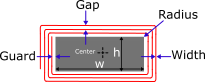
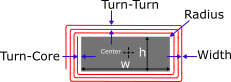
adding multi vias

Changed region(s): [[0.0, 0.0, 1.0, 1.0]]

diff --git a/install_to_kicad_plugins.py b/install_to_kicad_plugins.py
@@ -1,9 +1,13 @@
 """
-Interactive installer for a KiCad pcbnew action plugin.
+Interactive installer for KiCad pcbnew action plugins.
 
-Adds two explicit assets:
-- icon  -> installed as 'icon.png'
-- diagram -> installed as 'parameter_sketch.png'
+Now installs TWO plugins:
+- main plugin  (default: winding_generator.py)
+- via plugin   (default: place_vias.py)
+
+Also installs two explicit assets next to the plugins:
+- icon    -> 'icon.png'
+- diagram -> 'parameter_sketch.png'
 """
 
 import argparse
@@ -13,13 +17,15 @@ import platform
 import shutil
 from pathlib import Path
 
-# --- settings you might change ---
-DEFAULT_PLUGIN = "winding_generator.py"
+# --- defaults you may change ---
+DEFAULT_MAIN_PLUGIN = "winding_generator.py"
+DEFAULT_VIA_PLUGIN  = "place_vias.py"
 ICON_TARGET_NAME = "icon.png"
+VIA_ICON_TARGET_NAME = "vias_icon.png"
 DIAGRAM_TARGET_NAME = "parameter_sketch.png"
 CONFIG_FILE = Path.home() / ".kicad_plugin_installer.json"
 CONFIG_KEY = "plugins_dir"
-# ---------------------------------
+# --------------------------------
 
 def load_saved_plugins_dir() -> Path | None:
     if CONFIG_FILE.is_file():
@@ -102,31 +108,53 @@ def install_file(src: Path, dst_dir: Path, target_name: str, link: bool, force_c
     shutil.copy2(src, dst)
     print(f"✔ Copied: {src.name} → {dst.name}")
 
+def _install_plugin(repo_root: Path, src_name: str, dst_dir: Path, target_name: str | None, link: bool):
+    src = (repo_root / src_name).resolve()
+    if not src.is_file():
+        print(f"⚠ Skipping (not found): {src}")
+        return
+    final_name = target_name or src.name
+    print(f"Installing Python : {src.name} → {final_name} ({'symlink' if link else 'copy'})")
+    install_file(src, dst_dir, final_name, link=link, force_copy=False)
+
 def main():
-    ap = argparse.ArgumentParser(description="Install/Update KiCad plugin (asks for plugins folder first).")
-    ap.add_argument("--source", default=DEFAULT_PLUGIN,
-                    help="Plugin file in this repo (default: winding_generator.py)")
-    ap.add_argument("--name", default=None,
-                    help="Target filename in KiCad (default: same as source)")
-    ap.add_argument("--link", action="store_true",
-                    help="Create a symbolic link for the Python file instead of copying")
+    ap = argparse.ArgumentParser(description="Install/Update KiCad plugins (asks for plugins folder first).")
+
+    # Main spiral plugin
+    ap.add_argument("--main-source", default=DEFAULT_MAIN_PLUGIN,
+                    help=f"Main plugin file in this repo (default: {DEFAULT_MAIN_PLUGIN})")
+    ap.add_argument("--main-name", default=None,
+                    help="Target filename for main plugin in KiCad (default: same as source)")
+    ap.add_argument("--main-link", action="store_true",
+                    help="Symlink the main plugin instead of copying")
+
+    # Via plugin
+    ap.add_argument("--via-source", default=DEFAULT_VIA_PLUGIN,
+                    help=f"Via plugin file in this repo (default: {DEFAULT_VIA_PLUGIN})")
+    ap.add_argument("--via-name", default=None,
+                    help="Target filename for via plugin in KiCad (default: same as source)")
+    ap.add_argument("--via-link", action="store_true",
+                    help="Symlink the via plugin instead of copying")
+    ap.add_argument("--no-via", action="store_true",
+                    help="Do not install the via plugin")
+
+    # Common / assets
     ap.add_argument("--reset", action="store_true",
                     help="Ignore saved folder and ask again")
     ap.add_argument("--kicad-major", default="9",
                     help="KiCad major version for guesses (default: 9)")
-    # NEW: explicit asset sources (any filename); installed to fixed names
     ap.add_argument("--icon-src", default="icon.png",
                     help=f"Path to icon image to install as {ICON_TARGET_NAME} (default: icon.png)")
     ap.add_argument("--diagram-src", default="parameter_sketch.png",
                     help=f"Path to diagram image to install as {DIAGRAM_TARGET_NAME} (default: parameter_sketch.png)")
+    ap.add_argument("--via-icon-src", default="vias_icon.png",  # <— NEW
+                    help=f"Path to via icon image to install as {VIA_ICON_TARGET_NAME} (default: vias_icon.png)")
+
     args = ap.parse_args()
 
     repo_root = Path(__file__).resolve().parent
-    src_py = (repo_root / args.source).resolve()
-    if not src_py.is_file():
-        raise SystemExit(f"ERROR: source plugin not found: {src_py}")
 
-    # find plugins dir
+    # Resolve plugins dir
     plugins_dir = None if args.reset else load_saved_plugins_dir()
     if not plugins_dir:
         plugins_dir = pick_folder_gui()
@@ -136,17 +164,20 @@ def main():
                 print("\nNo folder chosen. Using detected path:", guesses[0])
                 plugins_dir = guesses[0]
             else:
-                raise SystemExit("\nNo folder chosen and nothing detected. Please run again and pick the folder.")
+                raise SystemExit("\nNo folder chosen and nothing detected. Run again and pick the folder.")
 
     save_plugins_dir(plugins_dir)
 
-    # install plugin
-    target_py = args.name or src_py.name
     print(f"\nKiCad plugins dir : {plugins_dir}")
-    print(f"Installing Python : {src_py.name} → {target_py} ({'symlink' if args.link else 'copy'})")
-    install_file(src_py, plugins_dir, target_py, link=args.link, force_copy=False)
 
-    # install icon → icon.png
+    # Install main plugin
+    _install_plugin(repo_root, args.main_source, plugins_dir, args.main_name, args.main_link)
+
+    # Install via plugin (optional)
+    if not args.no_via:
+        _install_plugin(repo_root, args.via_source, plugins_dir, args.via_name, args.via_link)
+
+    # Install icon → icon.png
     icon_src = (repo_root / args.icon_src).resolve()
     if icon_src.exists():
         print(f"Installing icon    : {icon_src.name} → {ICON_TARGET_NAME} (copy)")
@@ -154,7 +185,7 @@ def main():
     else:
         print(f"⚠ Icon not found   : {icon_src}")
 
-    # install diagram → parameter_sketch.png
+    # Install diagram → parameter_sketch.png
     diagram_src = (repo_root / args.diagram_src).resolve()
     if diagram_src.exists():
         print(f"Installing diagram : {diagram_src.name} → {DIAGRAM_TARGET_NAME} (copy)")
@@ -162,8 +193,16 @@ def main():
     else:
         print(f"⚠ Diagram not found: {diagram_src}")
 
+    # Install via icon → vias_icon.png   (NEW)
+    via_icon_src = (repo_root / args.via_icon_src).resolve()
+    if via_icon_src.exists():
+        print(f"Installing via icon: {via_icon_src.name} → {VIA_ICON_TARGET_NAME} (copy)")
+        install_file(via_icon_src, plugins_dir, VIA_ICON_TARGET_NAME, link=False, force_copy=True)
+    else:
+        print(f"⚠ Via icon not found: {via_icon_src}")
+
     print("\nDone. In KiCad PCB Editor use: Tools → External Plugins → Refresh Plugins.")
-    print(f"Plugin expects: {ICON_TARGET_NAME} and {DIAGRAM_TARGET_NAME} next to the plugin file.")
+    print(f"Plugins expect {ICON_TARGET_NAME}, {DIAGRAM_TARGET_NAME} and {VIA_ICON_TARGET_NAME} next to them.")
 
 if __name__ == "__main__":
     main()

diff --git a/place_vias.py b/place_vias.py
@@ -1,0 +1,172 @@
+# place_via_array.py
+# KiCad Action Plugin: Place an array of vias horizontally or vertically
+# KiCad 7/8/9 compatible. Units: dialog in mm; pcbnew uses nm (FromMM/ToMM).
+
+import pcbnew
+import wx
+import os
+
+MM = pcbnew.FromMM
+
+def v2(x, y):
+    return pcbnew.VECTOR2I(int(x), int(y))
+
+def get_netcode(board, net_name):
+    """Return netcode for net_name (0 if not found)."""
+    if not net_name or net_name.strip() == "":
+        return 0
+    # KiCad API differences guard:
+    try:
+        return board.GetNetcodeFromNetname(net_name)
+    except Exception:
+        nets = board.GetNetsByName()
+        n = nets.get(net_name)
+        return n.GetNet() if n else 0
+
+def all_net_names(board):
+    """Sorted list of net names (human-readable)"""
+    names = []
+    try:
+        # KiCad 7+
+        m = board.GetNetsByName()
+        for k in m.keys():
+            names.append(str(k))
+    except Exception:
+        # Fallback
+        for n in board.GetNets():
+            names.append(n.GetNetname())
+    names = [n for n in names if n and n != "" and n != ""]  # filter empties
+    names.sort()
+    names.insert(0, "<no net>")
+    return names
+
+def add_via(board, pos_nm, drill_mm, dia_mm, netcode=0):
+    """Create a through via at pos_nm (VECTOR2I) with given sizes."""
+    via = pcbnew.PCB_VIA(board)
+    via.SetViaType(pcbnew.VIATYPE_THROUGH)
+    via.SetPosition(pos_nm)
+    via.SetDrill(MM(drill_mm))
+    via.SetWidth(MM(dia_mm))            # width == diameter in KiCad
+    if netcode:
+        via.SetNetCode(netcode)
+    # through via layer pair covers all coppers by default
+    board.Add(via)
+
+class ViaArrayDialog(wx.Dialog):
+    def __init__(self, parent, board):
+        super().__init__(parent, title="Place Via Array",
+                         style=wx.DEFAULT_DIALOG_STYLE | wx.RESIZE_BORDER)
+        self.board = board
+        self.SetMinSize(wx.Size(480, 360))
+
+        p  = wx.Panel(self)
+        s  = wx.BoxSizer(wx.VERTICAL)
+
+        grid = wx.FlexGridSizer(3, 4, 6, 8)
+        grid.AddGrowableCol(1, 1)
+        grid.AddGrowableCol(3, 1)
+
+        # Center X / Y
+        grid.Add(wx.StaticText(p, label="Center X (mm):"), 0, wx.ALIGN_CENTER_VERTICAL)
+        self.cx = wx.TextCtrl(p, value="0.0", style=wx.TE_RIGHT); grid.Add(self.cx, 1, wx.EXPAND)
+        grid.Add(wx.StaticText(p, label="Center Y (mm):"), 0, wx.ALIGN_CENTER_VERTICAL)
+        self.cy = wx.TextCtrl(p, value="0.0", style=wx.TE_RIGHT); grid.Add(self.cy, 1, wx.EXPAND)
+
+        # Count & Pitch
+        grid.Add(wx.StaticText(p, label="Count:"), 0, wx.ALIGN_CENTER_VERTICAL)
+        self.count = wx.TextCtrl(p, value="6", style=wx.TE_RIGHT); grid.Add(self.count, 1, wx.EXPAND)
+        grid.Add(wx.StaticText(p, label="Pitch (mm):"), 0, wx.ALIGN_CENTER_VERTICAL)
+        self.pitch = wx.TextCtrl(p, value="1.00", style=wx.TE_RIGHT); grid.Add(self.pitch, 1, wx.EXPAND)
+
+        # Drill & Diameter
+        grid.Add(wx.StaticText(p, label="Drill (mm):"), 0, wx.ALIGN_CENTER_VERTICAL)
+        self.drill = wx.TextCtrl(p, value="0.30", style=wx.TE_RIGHT); grid.Add(self.drill, 1, wx.EXPAND)
+        grid.Add(wx.StaticText(p, label="Diameter (mm):"), 0, wx.ALIGN_CENTER_VERTICAL)
+        self.diam  = wx.TextCtrl(p, value="0.60", style=wx.TE_RIGHT); grid.Add(self.diam, 1, wx.EXPAND)
+
+        s.Add(grid, 0, wx.EXPAND | wx.ALL, 8)
+
+        # Orientation
+        ori_box = wx.StaticBoxSizer(wx.HORIZONTAL, p, "Orientation")
+        self.rb_h = wx.RadioButton(p, label="Horizontal (X)", style=wx.RB_GROUP)
+        self.rb_v = wx.RadioButton(p, label="Vertical (Y)")
+        self.rb_h.SetValue(True)
+        ori_box.Add(self.rb_h, 0, wx.RIGHT | wx.ALIGN_CENTER_VERTICAL, 16)
+        ori_box.Add(self.rb_v, 0, wx.ALIGN_CENTER_VERTICAL)
+        s.Add(ori_box, 0, wx.EXPAND | wx.LEFT | wx.RIGHT | wx.BOTTOM, 8)
+
+        # Net selection
+        net_box = wx.BoxSizer(wx.HORIZONTAL)
+        net_box.Add(wx.StaticText(p, label="Net:"), 0, wx.ALIGN_CENTER_VERTICAL | wx.RIGHT, 6)
+        self.net_choice = wx.Choice(p, choices=all_net_names(board))
+        self.net_choice.SetSelection(0)
+        net_box.Add(self.net_choice, 1, wx.EXPAND)
+        s.Add(net_box, 0, wx.EXPAND | wx.LEFT | wx.RIGHT | wx.BOTTOM, 8)
+
+        # Info line
+        info = wx.StaticText(p, label="Tip: Center is the middle of the array. Pitch is spacing between vias.")
+        s.Add(info, 0, wx.LEFT | wx.RIGHT | wx.BOTTOM, 8)
+
+        p.SetSizer(s)
+
+        root = wx.BoxSizer(wx.VERTICAL)
+        root.Add(p, 1, wx.ALL | wx.EXPAND, 10)
+        btns = self.CreateSeparatedButtonSizer(wx.OK | wx.CANCEL)
+        root.Add(btns, 0, wx.EXPAND | wx.ALL, 8)
+        self.SetSizerAndFit(root)
+
+    def get(self):
+        """Return dict of user inputs (mm), with types converted."""
+        f = lambda t: float(t.GetValue())
+        center_x = f(self.cx)
+        center_y = f(self.cy)
+        count    = max(1, int(float(self.count.GetValue())))
+        pitch    = f(self.pitch)
+        drill    = f(self.drill)
+        dia      = f(self.diam)
+        orient   = "H" if self.rb_h.GetValue() else "V"
+        net_name = self.net_choice.GetStringSelection()
+        if net_name == "<no net>":
+            net_name = ""
+        return dict(cx=center_x, cy=center_y, count=count, pitch=pitch,
+                    drill=drill, dia=dia, orient=orient, net=net_name)
+
+class PlaceViaArray(pcbnew.ActionPlugin):
+    def defaults(self):
+        self.name = "Via Array"
+        self.category = "Add vias"
+        self.description = "Place an array of vias (horizontal/vertical)"
+        self.show_toolbar_button = True
+        self.icon_file_name = os.path.join(os.path.dirname(__file__), "vias_icon.png")  # optional
+
+    def Run(self):
+        board = pcbnew.GetBoard()
+        if not board:
+            return
+
+        dlg = ViaArrayDialog(None, board)
+        if dlg.ShowModal() != wx.ID_OK:
+            dlg.Destroy(); return
+        P = dlg.get(); dlg.Destroy()
+
+        # Convert to internal coords
+        cx = MM(P["cx"]); cy = MM(P["cy"])
+        pitch_nm = MM(P["pitch"])
+        netcode = get_netcode(board, P["net"])
+
+        # Compute first via position so that array is centered on (cx, cy)
+        n = P["count"]
+        # For even/odd, center around middle: index i = 0..n-1
+        # offset_i = (i - (n-1)/2) * pitch
+        for i in range(n):
+            offset = int(round((i - (n - 1) / 2.0) * pitch_nm))
+            if P["orient"] == "H":
+                pos = v2(cx + offset, cy)
+            else:
+                pos = v2(cx, cy + offset)
+            add_via(board, pos, P["drill"], P["dia"], netcode)
+
+        pcbnew.Refresh()
+
+# Register plugin
+PlaceViaArray().register()

diff --git a/winding_generator.py b/winding_generator.py
@@ -107,10 +107,10 @@ class ParamsDialog(wx.Dialog):
             return tc
 
         # Parameter names (all mm)
-        self.gap    = row("Gap (mm):", "0.30")       # inner clearance
+        self.gap    = row("Turn-Core (mm):", "0.30")       # inner clearance
         self.radius = row("Radius (mm):", "2.00")    # corner radius
         self.twidth = row("Width (mm):", "0.25")     # track width
-        self.guard  = row("Guard (mm):", "0.25")     # track-to-track spacing
+        self.guard  = row("Turn-Turn (mm):", "0.25")     # track-to-track spacing
 
         props = wx.StaticBoxSizer(wx.VERTICAL, p, "Properties")
         grid  = wx.FlexGridSizer(2, 4, 6, 8)
